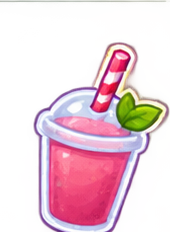
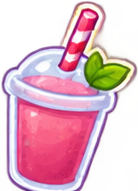
Points pill cup centred, empty basket note on a card, blender's own button blends

diff --git a/src/ui/blender.ts b/src/ui/blender.ts
@@ -43,7 +43,7 @@ export function blenderScreen(app: App, capacity = MAX_JUG): HTMLElement {
   const glassItems = el('div.glass-items');
   const liquid = el('div.liquid');
   const glass = el('div.glass', {}, liquid, glassItems);
-  const power = el('div.power');
+  const power = el('button.power', { ariaLabel: 'Blend' });
   const mixTitle = el('h3');
   const mix = el('div.mix');
   const mixHint = el('p.mix-hint');
@@ -214,7 +214,7 @@ export function blenderScreen(app: App, capacity = MAX_JUG): HTMLElement {
     }, SIP_SECONDS * 1000 + 900);
   }
 
-  onTap(blendButton, () => {
+  const go = () => {
     if (busy) return;
     if (!jug.length) {
       sfx.nope();
@@ -235,7 +235,10 @@ export function blenderScreen(app: App, capacity = MAX_JUG): HTMLElement {
       render();
       reveal(result, fresh);
     }, BLEND_SECONDS * 1000);
-  });
+  };
+  // The button on the blender itself works as well as the one beside it.
+  onTap(blendButton, go);
+  onTap(power, go);
 
   onTap(close, () => {
     if (busy) return;

diff --git a/src/style.css b/src/style.css
@@ -1119,9 +1119,15 @@ body::before {
   grid-column: 1 / -1;
   grid-row: 1 / -1;
   align-self: center;
-  padding: 0 1em;
+  justify-self: center;
+  max-width: 88%;
+  padding: 0.7em 1em;
   text-align: center;
   font-size: 1.5cqw;
+  background: #fff8e6;
+  border: 0.2cqw solid #c98f52;
+  border-radius: 1em;
+  box-shadow: 0 0.3cqw 0.6cqw rgba(90, 50, 10, 0.25);
 }
 
 .pager {
@@ -1195,7 +1201,14 @@ body::before {
   width: 6%;
   aspect-ratio: 1;
   border-radius: 50%;
-  pointer-events: none;
+  padding: 0;
+  background: none;
+  border: 0;
+  transition: transform 0.08s;
+}
+
+.power:active {
+  transform: scale(0.92);
 }
 
 .blending .power {

diff --git a/tools/slice.py b/tools/slice.py
@@ -144,7 +144,10 @@ for name in ("map", "map-tropics", "map-village", "stall"):
     Image.open(ROOT / f"tools/source/{name}.png").convert("RGB").save(ROOT / f"public/assets/{name}.webp", quality=90, method=6)
 # Trim the empty margin so the cup sits centred wherever it is used as an icon.
 cup = Image.open(ROOT / "tools/source/smoothie-cup.png").convert("RGBA")
-cup.crop(cup.getchannel("A").point(lambda a: 255 if a > 40 else 0).getbbox()).save(ROOT / "public/assets/smoothie-cup.png", optimize=True)
+# The cut-out left a hairline above the cup: ignore anything that thin when finding its edges, or the cup sits low
+# wherever it is centred.
+box = cup.getchannel("A").point(lambda a: 255 if a > 40 else 0).filter(ImageFilter.MinFilter(7)).getbbox()
+cup.crop((max(0, box[0] - 4), max(0, box[1] - 4), min(cup.width, box[2] + 4), min(cup.height, box[3] + 4))).save(ROOT / "public/assets/smoothie-cup.png", optimize=True)
 
 
 def cut(source, box, out, strays=True):
